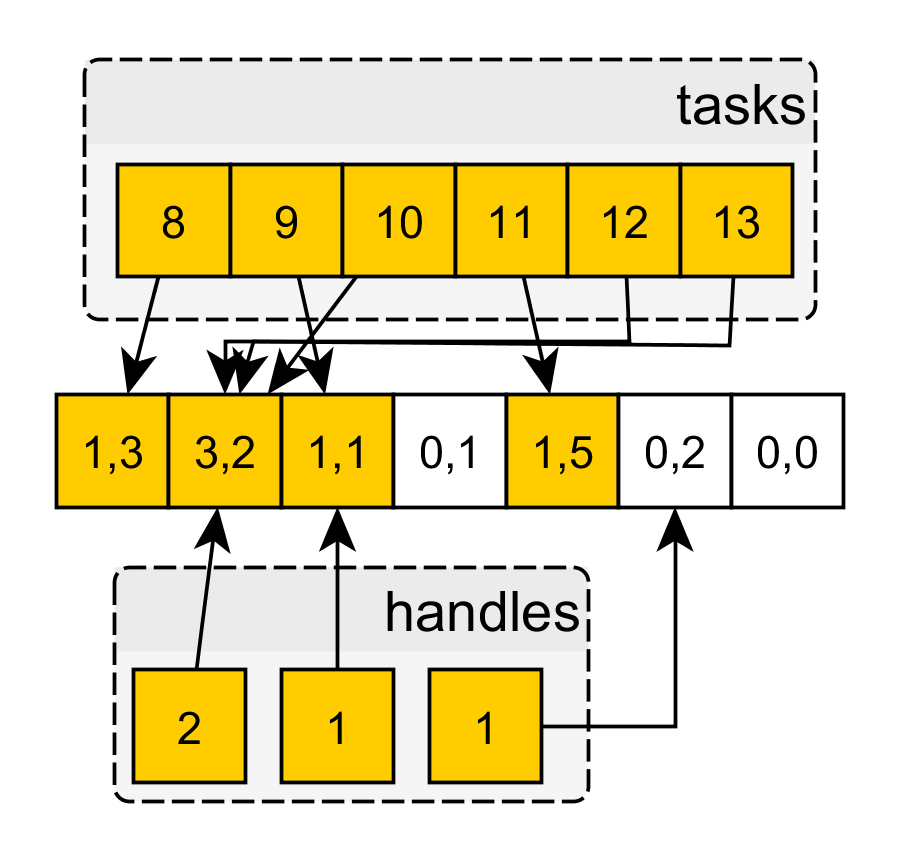
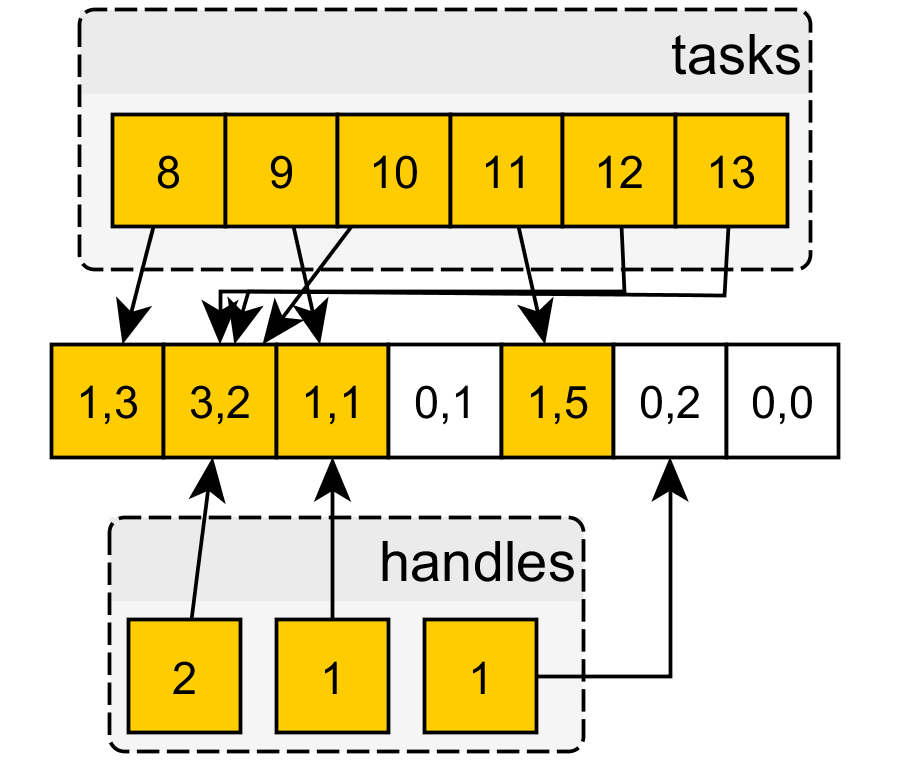
Continue writing implementation section of paper

Changed region(s): [[0.0311, 0.0, 0.9644, 0.9948]]

diff --git a/Presentations/Paper/paper_thread_pool.tex b/Presentations/Paper/paper_thread_pool.tex
@@ -66,7 +66,7 @@ In this section, we define our configuration of tasks that are processed by the 
 
 \begin{figure*}[htbp]
 	\includegraphics[width=1.0\textwidth]{img/pool_structure.png}
-	\caption{Design of the thread pool system}
+	\caption{Design of the thread pool system TODO: Fix Image!}
 	\label{fig0}
 \end{figure*}
 
@@ -116,9 +116,18 @@ In Figure 1, we show our design of the whole thread pool system, containing the 
 The thread pool system includes an array of threads and a priority queue to store the passed tasks. We decided to implement the thread pool using the POSIX thread library to provide the thread pool for multiple operation systems like Linux and Unix. Additionally, we avoid using custom compiler flags to ensure that the thread pool can be compiled with different compilers. The thread pool itself contains a variable number of threads. Since XY and XZ show the importance of accurate thread pool size, we add a resizing function for our thread pool, which enables to change the amount of threads at runtime. 
 
 \subsection{Thread Pool and Task Queue}
-Threads and tasks are two major entities in the thread pool system. As we can observe from Figure 1, thread pool and task queue are two data structures used to store the required information related to the threads and the submitted tasks, respectively. Each spawned thread can be either working on a task or waiting for the next task. Consequently, we define the states of a thread to \emph{busy} and \emph{waiting}. 
+Threads and tasks are two major entities in the thread pool system. As we can observe from Figure 1, thread pool and task queue are two data structures used to store the required information related to the threads and the submitted tasks, respectively. Each spawned thread can be either working on a task or waiting for the next task. Consequently, we define the states of a thread as \emph{busy} and \emph{waiting}. A busy thread changes to waiting after processing its task if no other task is enqueued. Waiting tasks do busy waiting until there are new tasks available.
 
-\subsection{Enqueueing Tasks}
+Each assigned task contains a function pointer to a routine and a pointer to data. We implemented the task queue as a generic priority queue that uses a mutex thread to enqueue tasks threadsafe. Every time a new task is enqueued to the task queue, two scenarios can occur. If the new task has a priority, it is placed in the right slot of the task queue regarding its priority and the subsequent tasks are relocated. If the  new task has no priority, it is appended to the end of the queue. Furthermore, tasks can refer to a handle, which is used by the thread pool to wait for a specific amount of tasks.
+
+\subsection{Processing Tasks}
+\textbf{TODO: maybe table of provided functions} \\
+We define the processing of tasks as a procedure of 3-4 steps. In Figure 2, we show the flow of task enqueueing and execution in the thread pool system. In the first step, tasks are passed as a parameter to the enqueue function provided by the thread pool. The tasks have to be created before passing and later on freed after processing by the calling function.  We provide different functions to enqueue a single task or an array of tasks. 
+
+In the next step, the tasks will be enqueued into the priority queue of the thread pool. Optionally, a handle can be passed with the tasks or generated by the thread pool to force the calling function to wait for the tasks. After enqueueing the tasks to the priority queue, the waiting threads in the thread pool pop the enqueued tasks from the priority queue and executes the routine of the task. This happens asynchronously to the calling function and therefore is not considered as an own step of the process.
+
+The third step is only executed if the tasks refer to a valid handle and waiting is enforced by the calling function. This can be applied either by executing a provided waiting function from the thread pool or by calling \emph{thread\_pool\_enqueue\_tasks\_wait}. We will present our design of waiting for a specific amount of tasks in Section 3.D. The last step only contains the return to the calling function.
+
 \begin{figure}
 	\includegraphics[width=0.5\textwidth]{img/pool_queue.png}
 	\caption{Workflow of task enqueueing and execution in the thread pool}
@@ -127,7 +136,7 @@ Threads and tasks are two major entities in the thread pool system. As we can ob
 
 \subsection{Waiting for Tasks}
 \begin{figure}
-	\includegraphics[width=0.5\textwidth]{img/waitingconcept.png}
+	\includegraphics[width=0.4\textwidth]{img/waitingconcept.png}
 	\caption{Concept of waiting for tasks using a slotmap}
 	\label{fig2}
 \end{figure}
